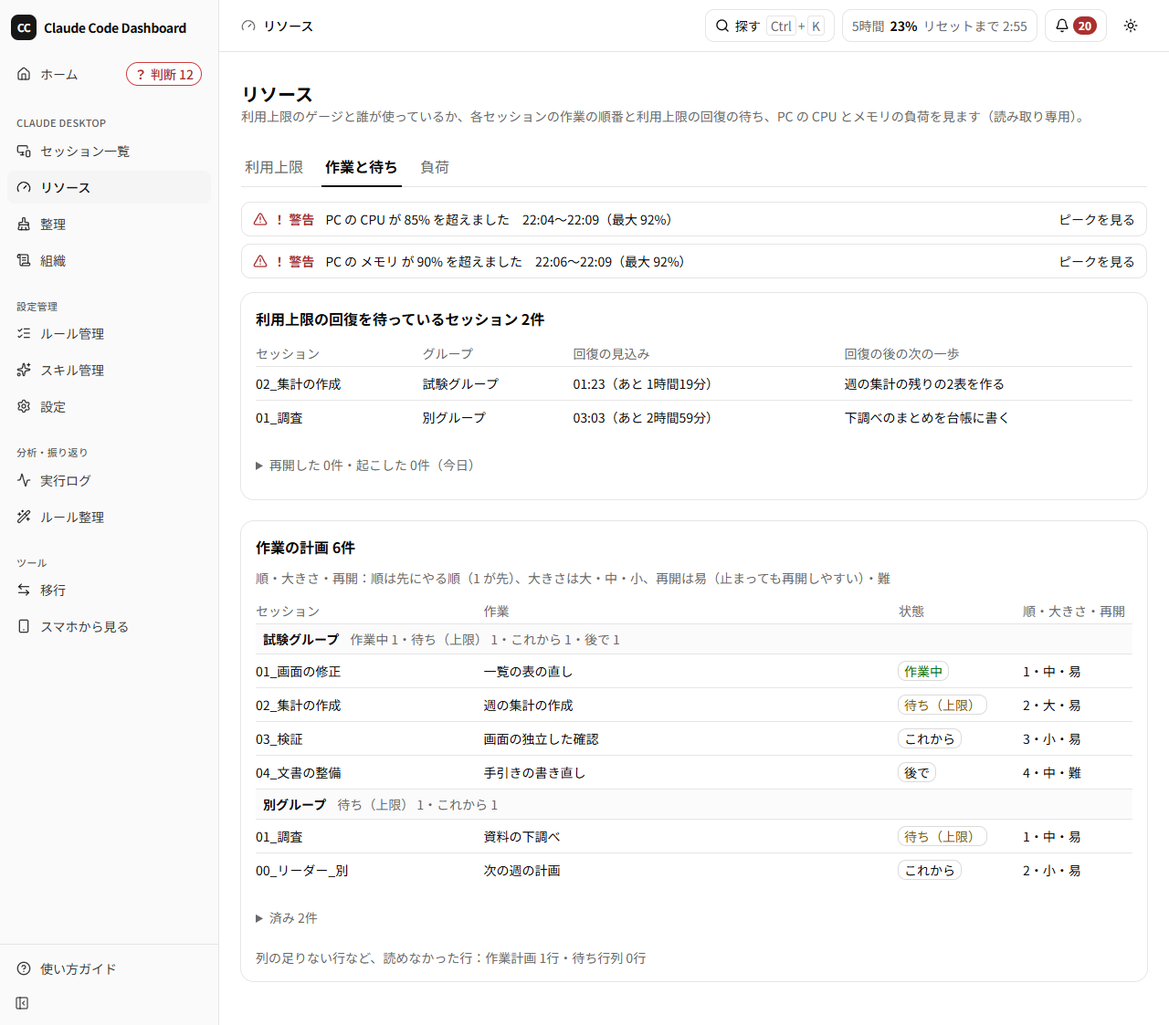
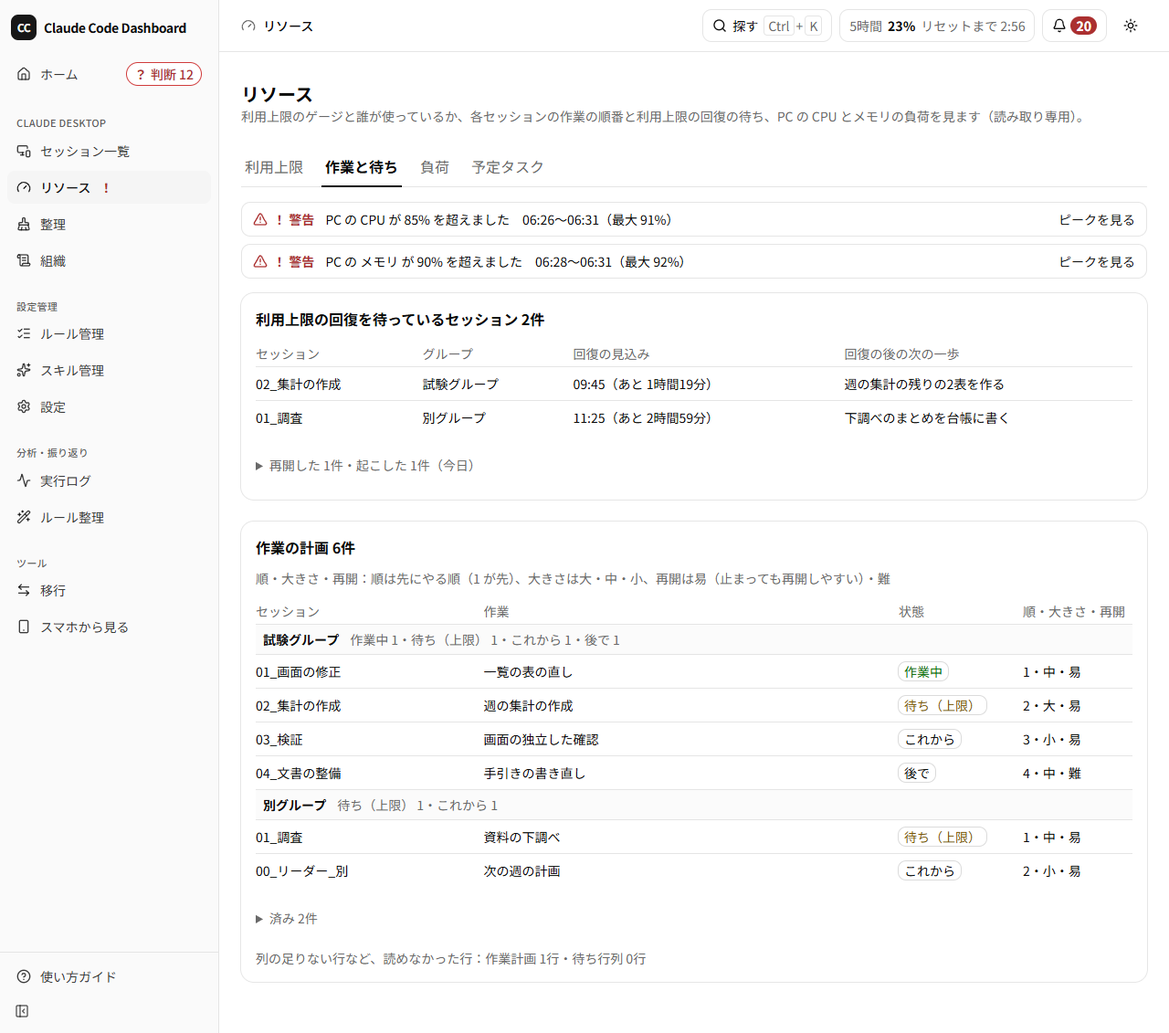
docs(指示60): ⑯ 段4 使い方ガイド・README・/help と画像(リソースの4つ目のタブ［予定タスク］・今週の消費の内訳・詳細の1行)
- 使い方ガイド：リソースの節に［予定タスク］の見方(結論の2行・比べ・境目の日・日ごとの表・一覧)、5-1 に今週の消費の内訳、詳細の1行、用語(予定タスク・回・本体・サブエージェント・重さ)
- README：リソースの説明に［予定タスク］と今週の消費の内訳、合成データのスクリプト
- /help：用語(予定タスク・回・本体・1回あたりの消費〈重さ〉と単価の直し方)
- 画像：09・09b・09c を4つのタブで撮り直し、09d-scheduled を足した(合成データ・1280 幅)

diff --git a/src/app/help/page.tsx b/src/app/help/page.tsx
@@ -112,7 +112,21 @@ const GLOSSARY: { term: string; description: string }[] = [
   },
   {
     term: "リソース",
-    description: "前の「利用上限」のページ。［利用上限］［作業と待ち］［負荷］のタブ。サイドバーから開くと、いつも［利用上限］が出る。",
+    description: "前の「利用上限」のページ。［利用上限］［作業と待ち］［負荷］［予定タスク］のタブ。サイドバーから開くと、いつも［利用上限］が出る。",
+  },
+  {
+    term: "予定タスク・回",
+    description:
+      "予定タスクは、Claude Desktop の予定（決まった時刻に動く作業）。回は、予定タスクが1回動いたこと。リソースの［予定タスク］で、最後の回の状態と、境目の日の前の7日と後の7日の1回あたりの消費を比べる。セッション一覧の印も「予定タスク」。",
+  },
+  {
+    term: "本体",
+    description: "セッションの会話をしているモデル。本体が任せた子の作業はサブエージェント。",
+  },
+  {
+    term: "1回あたりの消費（重さ）",
+    description:
+      "［利用上限］と同じ価格表で、使用量（入力・出力・キャッシュの書き込みと読み出し）を金額に換算した推定（価格表による）。請求額ではなく、モデルの間の比だけが効く。予定タスクの比べでは、前の7日の平均を100とした値で出す。単価は config/usage.json の prices で直せる（見本は config/usage.example.json）。",
   },
   {
     term: "作業と待ち",

diff --git a/README.md b/README.md
@@ -16,7 +16,7 @@ Webアプリ側は重い処理を行わず、実際の `.claude/CLAUDE.md` / `.c
 - **スマホから見る**（`/lan-access`）— 同じ家の Wi-Fi のスマホから、ホーム・セッション一覧・利用上限・整理の4ページを読み取り専用で見る（既定はオフ）。Next のサーバーは 127.0.0.1 のままにし、オンのときだけ別の入り口（`src/lib/lanAccess/gateway.ts`。番号 38418）が PC のプライベートな IPv4 で待ち受けて、判定（`gatewayPolicy.ts`）を通った GET・HEAD だけを中継する（Next の proxy では相手のアドレスが分からず、Host を偽るとループバック扱いになるため）。入り口は、Host が PC の IP:38418 であること・接続元がプライベートな IPv4 であること・登録した端末の鍵（HttpOnly・SameSite=Strict のクッキー。サーバーはハッシュだけを持つ）・許可リストを確かめ、書き込みは鍵があっても 403。端末は PC の画面の登録コード（QR・5分・1回限り）で登録し、期限は90日、10台まで、端末ごとに取り消せる。スマホへ返す API の応答では、作業フォルダのパスを最後のフォルダ名だけにする。入り口は `src/instrumentation.ts` で起動し、オン・オフは再起動なしで反映する。通信は HTTP（暗号化なし）なので、家の Wi-Fi の中だけで使う。スマホにはスマホ用の画面（`src/app/phone`・`src/components/phone`）を出す。proxy が入り口の経由の要求だけを振り替えるので、URL は PC と同じで、PC のページの描き方（静的）は変わらない。最初の画面に、あなたの対応待ち（件数と上位3件。問いの文を16pxで3行まで出し、入りきらないときだけ［全文を開く］。スマホへ返す問いと候補は、秘密らしい文字とパスを伏せる）・送信上限で停止・実行中の数・利用上限を出し、下の4つのタブで移る。一覧は1件1枚のカードで、詳細は全画面で開く。15秒ごとに読み直し、画面が隠れているあいだは止める。ライト・ダークは端末の設定に合わせる
 - **移行（エクスポート/インポート）**（`/migrate`）— ルール・スキルを1つのJSONファイルに書き出し、他のPC（別プロジェクト）に差分プレビュー付きで取り込む。上書き前に自動バックアップ。インポートは足す・上書きするだけで、今あるルール・スキルは消さない。移るもの・移らないものを画面の上に出す（`src/lib/migrateScope.ts`）。インポートの「ファイルを選択」はドラッグ&ドロップにも対応し、配布版exeでは`dialog.showOpenDialog`をIPC経由で直接呼び出す経路を優先する（環境差でファイル選択ダイアログが開かない事例への対処）
 - **セッション一覧**（`/desktop-sessions`）— Claude Desktopの全セッションを一覧する読み取り専用ビュー（5秒更新。サイドバーの「Claude Desktop」は、見たい内容ごとに「セッション一覧」「リソース」「整理」「組織」のページに分かれ、組織図はホームに出る）。一覧の主データはDesktopが保存するセッションのメタデータ（`claude-code-sessions/*/*/local_*.json`）で、要対応のセッションには要対応の内容の先頭60文字を表示し、会話ログ（`~/.claude/projects/*/<id>.jsonl`）から最新の指示（先頭60文字・発信元つき）・コンテキスト使用量・タスクリストの進み具合・圧縮回数を補い、サイドバーのグループ・ピン留めは`claude_desktop_config.json`の`preferences.epitaxyPrefs`の該当キーだけを読む。状態は、Desktopが付ける分類（要対応・確認待ち・完了）と、会話ログの更新状況からの推定（実行中・中断の可能性）を併記する。**要対応は4つに分ける**：許可待ち・承認待ち・判断待ち・待機（待機は要対応に数えず、ホームの判断待ち・整理ページ・通知から外す）。手がかりは、質問・プランの承認のツールで止まっていること、最後のターンのwrap_upの呼び出しの入力（質問の有無・承認のボタン〈commit・create_pr・merge〉）、無ければDesktopの要約の言葉（「推定」と出す。要約の詳しい文〈status_detail〉は種類を決めるのに使うだけで、返さない）。分け方は`src/lib/needsActionKind.ts`の表。Desktopの内部形式は非公開・非保証のため読み取り処理は`src/lib/desktopSessions.ts`に隔離し、読めない場合は会話ログだけの縮退表示に切り替える。認証トークンを含む`config.json`は読まず、APIは表示用の許可リスト項目だけを返す。新しく要対応になったセッションのデスクトップ通知（初期値はオフ。exeはElectron、ブラウザはNotification API。外部サービスは使わず、本文はセッション名と要対応の内容の抜粋だけ。クリックで詳細を開く）に対応（「CLIプロセスあり」の表示は、判断に使わず PowerShell を定期的に呼ぶ負荷だけが残るので、⑬ でやめた）。行を押して開く詳細には「健康」の欄があり、開くと会話ログ（`~/.claude/projects/*/*.jsonl`）から、無限ループ（沼）の兆候・ワークフローの安定性・拡張機能（MCP）の稼働・セッションの寿命の4つの観点を良好/注意/要対処で判定し、根拠・しきい値・次の行動を出す（`src/lib/sessionDiagnostics.ts` の `diagnoseHealth`。⑬ でセッション監視のページから移した）。Claude Code側のスキル`session-diagnostician`が書き出す`session_diagnosis.json`があれば、AI診断も並べる（ダッシュボード自身はLLMを呼ばない）。他のセッションへのメッセージ送信には「人が最後に入力してから10回まで」という上限があるため、各セッションに**送信回数**（送信 n/10。8回以上で黄、10回で赤。届かなかった送信も数える）を表示し、上限で止まっているセッションは**「送信上限で停止中」**を赤で目立たせて、Claude Desktopでそのセッションを開くボタン（`claude://`のリンク。exeは許可した形式のURLだけを開く）を出す。新しく停止したときのデスクトップ通知（要対応の通知と同じスイッチ）にも対応。回数は会話ログの送信ツール（`SendMessage`・セッション管理の送信ツール）の呼び出しから数え、停止は送信ツールの結果の文言から判定する（文言は非保証のため、判定条件は`src/lib/sessionMessaging.ts`の1か所に集約）。サンプルは`sample-data/claude-desktop/`（すべて合成データ）。上の切り替えに［看板］（⑮）：次にやる判断・作業中（下に「止まったかもしれない」）・完了（未読と直近24時間）・静か（24時間より前。［n件を出す］）の列に分け、確認待ち・中断の可能性・エラーは静かに入れない。カードは題名・状態の印・グループ・経過・抜粋1行と、作業計画が読めるときだけ「今：<作業>［段階］」。並びは急ぐ順 → 新しい順で、ポインタが看板の上にある間は入れ替えない。看板のときは一覧の頭の部品を出さず、絞り込みはグループだけ。幅が足りないときは3列にし、静かは1行
-- **リソース**（`/desktop-sessions/usage`。⑭）— 前の「利用上限」のページ。上の下線のタブで［利用上限］［作業と待ち］［負荷］を切り替える（`?tab=usage`・`plan`・`load`。前回のタブは覚えず、サイドバーから開くといつも［利用上限］）。［作業と待ち］は、各セッションが書く作業計画（`work_plan.tsv`）と利用上限の待ち行列（`resume_queue.tsv`）を読み、回復を待っているセッション（回復の見込みの時刻・残り時間・次の一歩）と、グループごとの今の作業（状態・順・大きさ・再開のしやすさ。待ち行列にいるセッションの作業中は「待ち（上限）」）を出す。［負荷］は、CPU の記録（`cpu_YYYYMMDD.tsv`。約1分ごと）を読み、PC 全体の CPU とメモリの推移の図（切り替え。1・2・6・24時間と日付。しきい値の点線・警告の斜線の帯・記録なし〈3分超の空き〉の灰色。図は role=slider で、押す・なぞる・矢印で時刻を選ぶ）、つながりの図「どこに CPU を使っているか」（上位8件・ほか・セッションの外 → PC 全体。線の太さと流れる粒が PC 全体に対する割合。粒は30回／秒まで、動きを減らす設定・止める・隠れているときは止める）、選んだ時刻に動いていたセッションの表を出す。しきい値は記録の警告の行（`CPU 85% 以上`・`メモリ 90% 以上`）の数字を読むだけで、アプリの中には持たない。PC の警告は、タブの下の帯・ホームの帯・サイドバーの「！」・通知（今の通知のスイッチ）にも出す。3つのファイルと記録の仕組みは読むだけ（書かない・動かさない）。読む場所は `config/monitor.json`（見本は `config/monitor.example.json`）。［利用上限］は、5時間・週（全モデル）・週（モデル別）の上限のゲージ（80%で黄・90%で橙・95%で赤）、リセットまでの残り時間、今のペースで何時に100%になるか（リセットより先に達する場合は警告。リセットとの差が小さい場合〈5時間の枠は15分以内・週の枠は2時間以内〉は赤でなく黄色で「リセットとほぼ同時」）、直近5時間と今週にどのセッション・グループが使っているか（上限の何%に当たるかで表す積み上げ棒。ドルは請求額と誤解されるため出さず、係数が決まらないときは全体に占める割合）を表示する。80%・95%を超えたときのデスクトップ通知（要対応の通知と同じスイッチ）、最新の公式値が80%以上（「上限に近づいています」）・90%以上（「上限ガード中：新しい指示は保留中です」）のときの帯（Claude Desktopのページの上部とホームの帯に表示。表示のみ。ガードの判断は運用ルール側）に対応。**公式値**は`~/.claude-dashboard/usage-snapshots.jsonl`（1行1件。記録は別の運用で追記する）を読み取るだけで、書かない。公式値の記録の間は、会話記録（`~/.claude/projects/*/*.jsonl`と`<セッション>/subagents/*.jsonl`）のトークン量を、`message.id`で重複を除いたうえでAPI価格で金額に換算し、公式値で較正した係数で割って**推定**する（画面には「推定」と幅を明示する。推定と公式値の差〈中央値・90%点〉は作る側の確かめなので画面に出さず、自動テストで確かめる）。モデルの価格表は`config/usage.json`の`prices`で直せる（見本は`config/usage.example.json`）。認証情報（`.credentials.json`・Desktopの`config.json`）は読まない。外部との通信なし・LLM呼び出しなし
+- **リソース**（`/desktop-sessions/usage`。⑭）— 前の「利用上限」のページ。上の下線のタブで［利用上限］［作業と待ち］［負荷］［予定タスク］を切り替える（`?tab=usage`・`plan`・`load`・`scheduled`。前回のタブは覚えず、サイドバーから開くといつも［利用上限］）。［作業と待ち］は、各セッションが書く作業計画（`work_plan.tsv`）と利用上限の待ち行列（`resume_queue.tsv`）を読み、回復を待っているセッション（回復の見込みの時刻・残り時間・次の一歩）と、グループごとの今の作業（状態・順・大きさ・再開のしやすさ。待ち行列にいるセッションの作業中は「待ち（上限）」）を出す。［負荷］は、CPU の記録（`cpu_YYYYMMDD.tsv`。約1分ごと）を読み、PC 全体の CPU とメモリの推移の図（切り替え。1・2・6・24時間と日付。しきい値の点線・警告の斜線の帯・記録なし〈3分超の空き〉の灰色。図は role=slider で、押す・なぞる・矢印で時刻を選ぶ）、つながりの図「どこに CPU を使っているか」（上位8件・ほか・セッションの外 → PC 全体。線の太さと流れる粒が PC 全体に対する割合。粒は30回／秒まで、動きを減らす設定・止める・隠れているときは止める）、選んだ時刻に動いていたセッションの表を出す。しきい値は記録の警告の行（`CPU 85% 以上`・`メモリ 90% 以上`）の数字を読むだけで、アプリの中には持たない。PC の警告は、タブの下の帯・ホームの帯・サイドバーの「！」・通知（今の通知のスイッチ）にも出す。3つのファイルと記録の仕組みは読むだけ（書かない・動かさない）。読む場所は `config/monitor.json`（見本は `config/monitor.example.json`）。［利用上限］は、5時間・週（全モデル）・週（モデル別）の上限のゲージ（80%で黄・90%で橙・95%で赤）、リセットまでの残り時間、今のペースで何時に100%になるか（リセットより先に達する場合は警告。リセットとの差が小さい場合〈5時間の枠は15分以内・週の枠は2時間以内〉は赤でなく黄色で「リセットとほぼ同時」）、直近5時間と今週にどのセッション・グループが使っているか（上限の何%に当たるかで表す積み上げ棒。ドルは請求額と誤解されるため出さず、係数が決まらないときは全体に占める割合）を表示する。80%・95%を超えたときのデスクトップ通知（要対応の通知と同じスイッチ）、最新の公式値が80%以上（「上限に近づいています」）・90%以上（「上限ガード中：新しい指示は保留中です」）のときの帯（Claude Desktopのページの上部とホームの帯に表示。表示のみ。ガードの判断は運用ルール側）に対応。**公式値**は`~/.claude-dashboard/usage-snapshots.jsonl`（1行1件。記録は別の運用で追記する）を読み取るだけで、書かない。公式値の記録の間は、会話記録（`~/.claude/projects/*/*.jsonl`と`<セッション>/subagents/*.jsonl`）のトークン量を、`message.id`で重複を除いたうえでAPI価格で金額に換算し、公式値で較正した係数で割って**推定**する（画面には「推定」と幅を明示する。推定と公式値の差〈中央値・90%点〉は作る側の確かめなので画面に出さず、自動テストで確かめる）。モデルの価格表は`config/usage.json`の`prices`で直せる（見本は`config/usage.example.json`）。認証情報（`.credentials.json`・Desktopの`config.json`）は読まない。外部との通信なし・LLM呼び出しなし。［利用上限］の「今週の消費」では、セッションの行の下にモデル別のトークン（本体とサブエージェントを分ける）とサブエージェントの本数を出し、セッションの詳細にも同じ1行（直近7日）を出す（⑯）。［予定タスク］（⑯）は、Claude Desktop の予定（メタデータの `scheduledTaskId`）ごとに、先頭の結論の2行（最後の回の状態ごとの数・選んだ予定タスクの比べの答え）、境目の日の前の7日と後の7日の1回あたりの消費の比べ（前の7日を100とした合計と本体の重さ・幅・回数・サブエージェントの本数とモデル。種類は `*.meta.json` の `agentType` だけを読み、description は読まない。平均は使用量が読めて終わった回だけ、どちらかが3回未満なら差を出さない。上限の約％は係数が決まるときだけ）、日ごとの表（日本時間の0時で切る。動かなかった日も1行）、予定タスクの一覧（最後の回・何時間前・状態の印・直近14日の回数・本体のモデル）を出す。予定タスクの回の会話記録（`cliSessionId` と `priorCliSessionIds`）だけを、ファイルが残っている間（最大30日）読む別の台帳で数える。選んだ予定タスクと境目の日はブラウザにだけ覚える。PC の画面だけ（`/api/scheduled-activity` は LAN の入り口から 403）
 - **組織図**（ホーム `/` に表示。以前の `/desktop-sessions/org` はホームへ移る）— グループごとに、指揮役のカードを上に、グループ内のセッションのカードを作成順に下に並べ、直近4時間の指示（指揮役→子、青い粒が下へ）・報告（子→指揮役、緑の粒が上へ。粒の大きさは作業量）・他のグループや外部（CLI）からの連絡（紫の点線）を、新しく起きたものだけ線の上の動きで見せる読み取り専用ビュー。指示と他グループ連絡は先頭20文字だけを線の横に出し、報告の本文は出さない。報告せずにターンが終わったセッションは灰色の「報告なしで終了」、作業中のカードは脈動し、カードにはコンテキストの%（80%で黄・90%で赤）と最新の指示を出す。出来事の一覧は初めは閉じる。過去を再生する「振り返り」、上の4つの集計、期間と並び順の選択、「見方」の説明、カードの作業量のバー・指示と報告の本数・トークン量・中断の可能性の印は、判断に結びつかないので ⑬ でやめた。指揮役は、グループ内でタイトルが接頭辞（既定 `00_`）で始まるセッション。接頭辞は `config/desktop-sessions.json` の `orchestratorPrefix` で変える（設定を変えたら再起動）。接頭辞に合うセッションが無いグループは、カードだけを並べて線は引かない。グループの並びの最後に「クラウドのセッション（claude.ai で開く）」を置き、`https://claude.ai/code` を新しいタブ（exe は既定のブラウザ。`electron/externalUrl.js` の許可リストに完全一致で入れた）で開く。クラウドのセッションの中身は claude.ai のログインの鍵が要るので出さない（⑬ CL-1）。指揮役の子（2層目）が作った補助のセッションは、その子のカードの下に字下げして並べる（3層目）。親は、Desktopのメタデータの `spawnedFrom.sessionId` だけで判断する。3層目はグループに入っていなくても出る（親が2層目の子のときだけ）。4層目以降は2層目の祖先の下にまとめて並べ、アーカイブ済みは出さない。サイドチャット（`spawnedFrom.btw` と `spawnedFrom.userFork` が両方 true のもの）はカードにせず、親のカードに「サイドチャット n」と数だけ出す。指示が無くても、直近1分以内にツールを呼んでいれば、カードは「作業中」になる。会話ログの読み込みは差分読みで、外部のAPI・LLMは使わない。動作確認用の合成データは `node scripts/make-org-chart-sample.mjs <出力先>` で作れる（手順は `sample-data/claude-desktop/README.md` と `/help`。同じ出力先に作り直したときは、ダッシュボードを再起動する）。
 - **組織**（`/org-rules`）— 上の下線つきのタブ（`role=tablist`・←→ キー・`?tab=rules`／`?tab=links`・前回の選択を覚える。部品は `src/components/ui/underline-tabs.tsx` と `src/hooks/useTabParam.ts`）で［決まり］と［つながり］を切り替える。読み取り専用。［決まり］は、全グループ共通の決まり（グローバルの `~/.claude/CLAUDE.md`。「組織の運用」「セッションの題名」の節を先頭に出す）と、グループごとの指揮役の決まり（組織図と同じ指揮役の作業フォルダの `CLAUDE.md` と、指揮役の会話ログのフォルダの `memory` の一覧。記憶の本文は開いたときだけ返す。索引 `MEMORY.md` とのずれに印）、`config/org-rules.json` の `extraFiles` に書いたファイル（`.md`・`.txt`、1MB まで。見本は `config/org-rules.example.json`）、選んでいるプロジェクトの記憶の一覧（もとのメモリ管理。初めは閉じる。種類別に絞り込める）を並べる。本文の中の「NN_題名」が今のセッションの題名と合わないものに印を付ける。指揮役でないセッションのフォルダは読まない。WSL の作業フォルダは「読めない」と出す。認証情報などの拒否リストを通す。グローバルの `CLAUDE.md` の場所は `globalClaudeMdPath` か環境変数 `CCD_GLOBAL_CLAUDE_MD` で変えられる。［つながり］（⑬ の関係性マップ。`/api/relations`）は、グループの一覧で1つを選び、指揮役・担当・確認役・補助のカード（7件以上は最初の6枚と「ほか n件」）、効いているものの表（全体の決まり・作業フォルダとその上の `CLAUDE.md`・会話ログの置き場の `memory`・ユーザーのスキルと直近30日の呼び出し・設定で結んだ指示ファイル。本文は返さない）、直近7日のグループをまたぐ頼み（Desktop の `peerReceipts` の宛先が別のグループのもの。要旨は組織図と同じ先頭20字）を出す。役割は題名の決まりだけで分け、ブランチは `writtenBranches` だけから出す（git のコマンドは呼ばない）。カードには分かる事実だけを書き、グループの見出しに「ブランチが分かるもの n/m・指示の置き場を設定したもの n/m」を出す。指示のファイル・報告の台帳と担当の結び・役割の見分け方・役割の名前は `config/relations.json`（git の外。見本は `config/relations.example.json`）に書く。設定が無ければ、指示と報告の行を出さない。クラウドのフォルダ（OneDrive・Google Drive・Dropbox）の中は調べない
 - **セッションの整理**（`/desktop-sessions/housekeeping`）— たまったセッションを片づけ、催促するための、読み取り専用の1画面。もとの「あなたの対応待ち」はホームの「次にやる判断」へ移したので（⑬）、ここには件数とホームへの入口だけを出す。(1) **返事の来ていない指示**: 直近24時間に指揮役などが送った指示のうち、報告が付いていないもの（報告なしで終了／報告待ち〈30分以上〉／未達の疑い〈送り手の記録だけで、30分以上〉）を、組織図と同じ出来事の組み立て（`assembleFlow`）から取り出す。(2) **コンテキスト整理の候補**: コンテキスト使用率が高い（`highContextRatio`、既定80%）、または最後の応答から60分以上たって50K以上のセッション（実行中・アーカイブ済みは除く）。最後の応答から1時間たつとプロンプトキャッシュが切れ、再開した最初の応答でコンテキスト全体を書き直すため、その**再開コスト**（コンテキスト量×入力単価×2〔1時間キャッシュの書き込み〕）を、利用上限の較正があれば「5時間の枠 約x〜y%・週 約x〜y%」で、金額（API価格換算。請求額ではない）を添えて出し、キャッシュが切れているものを先に、再開コストの大きい順に並べる（最後の応答の時刻が分からないものは「キャッシュ不明」として、切れていた場合の目安を添え、切れているものの後ろに置く）。キャッシュ切れの行には「使わないなら、再開せずに /clear か圧縮」の案内を添える。各行の「セッションを開く」で、Claude Desktopでそのセッションを開く（許可した形式のURLだけ）。しきい値は`config/desktop-sessions.json`の`housekeeping`（`idleMinutes`・`minIdleTokens`・`unansweredMinutes`）で変える。会話の本文は返さず、返すのはタイトル・グループ名・モデル・時刻・数値・状態・指示の先頭20文字・要対応の先頭60文字だけ。外部との通信なし・LLM呼び出しなし
@@ -162,7 +162,8 @@ scripts/
 ├── package-sample-data.mjs     # sample-data/ をRelease添付用zipにまとめるスクリプト
 ├── prepare-standalone.mjs      # next build の後に、静的ファイルを standalone の下へ写す（electron:dev と dist:win で共通）
 ├── make-org-chart-sample.mjs   # 組織図・整理ページ・利用上限の確認用の合成データを作るスクリプト
-└── make-monitor-sample.mjs     # リソースの［作業と待ち］［負荷］の確認用の合成データ（作業計画・待ち行列・CPU の記録）を作るスクリプト
+├── make-monitor-sample.mjs     # リソースの［作業と待ち］［負荷］の確認用の合成データ（作業計画・待ち行列・CPU の記録）を作るスクリプト
+└── make-scheduled-sample.mjs   # リソースの［予定タスク］の確認用の合成データ（30日分の予定タスクの回・会話記録・サブエージェント）を作るスクリプト
 LICENSE                # MITライセンス
 ```
 
